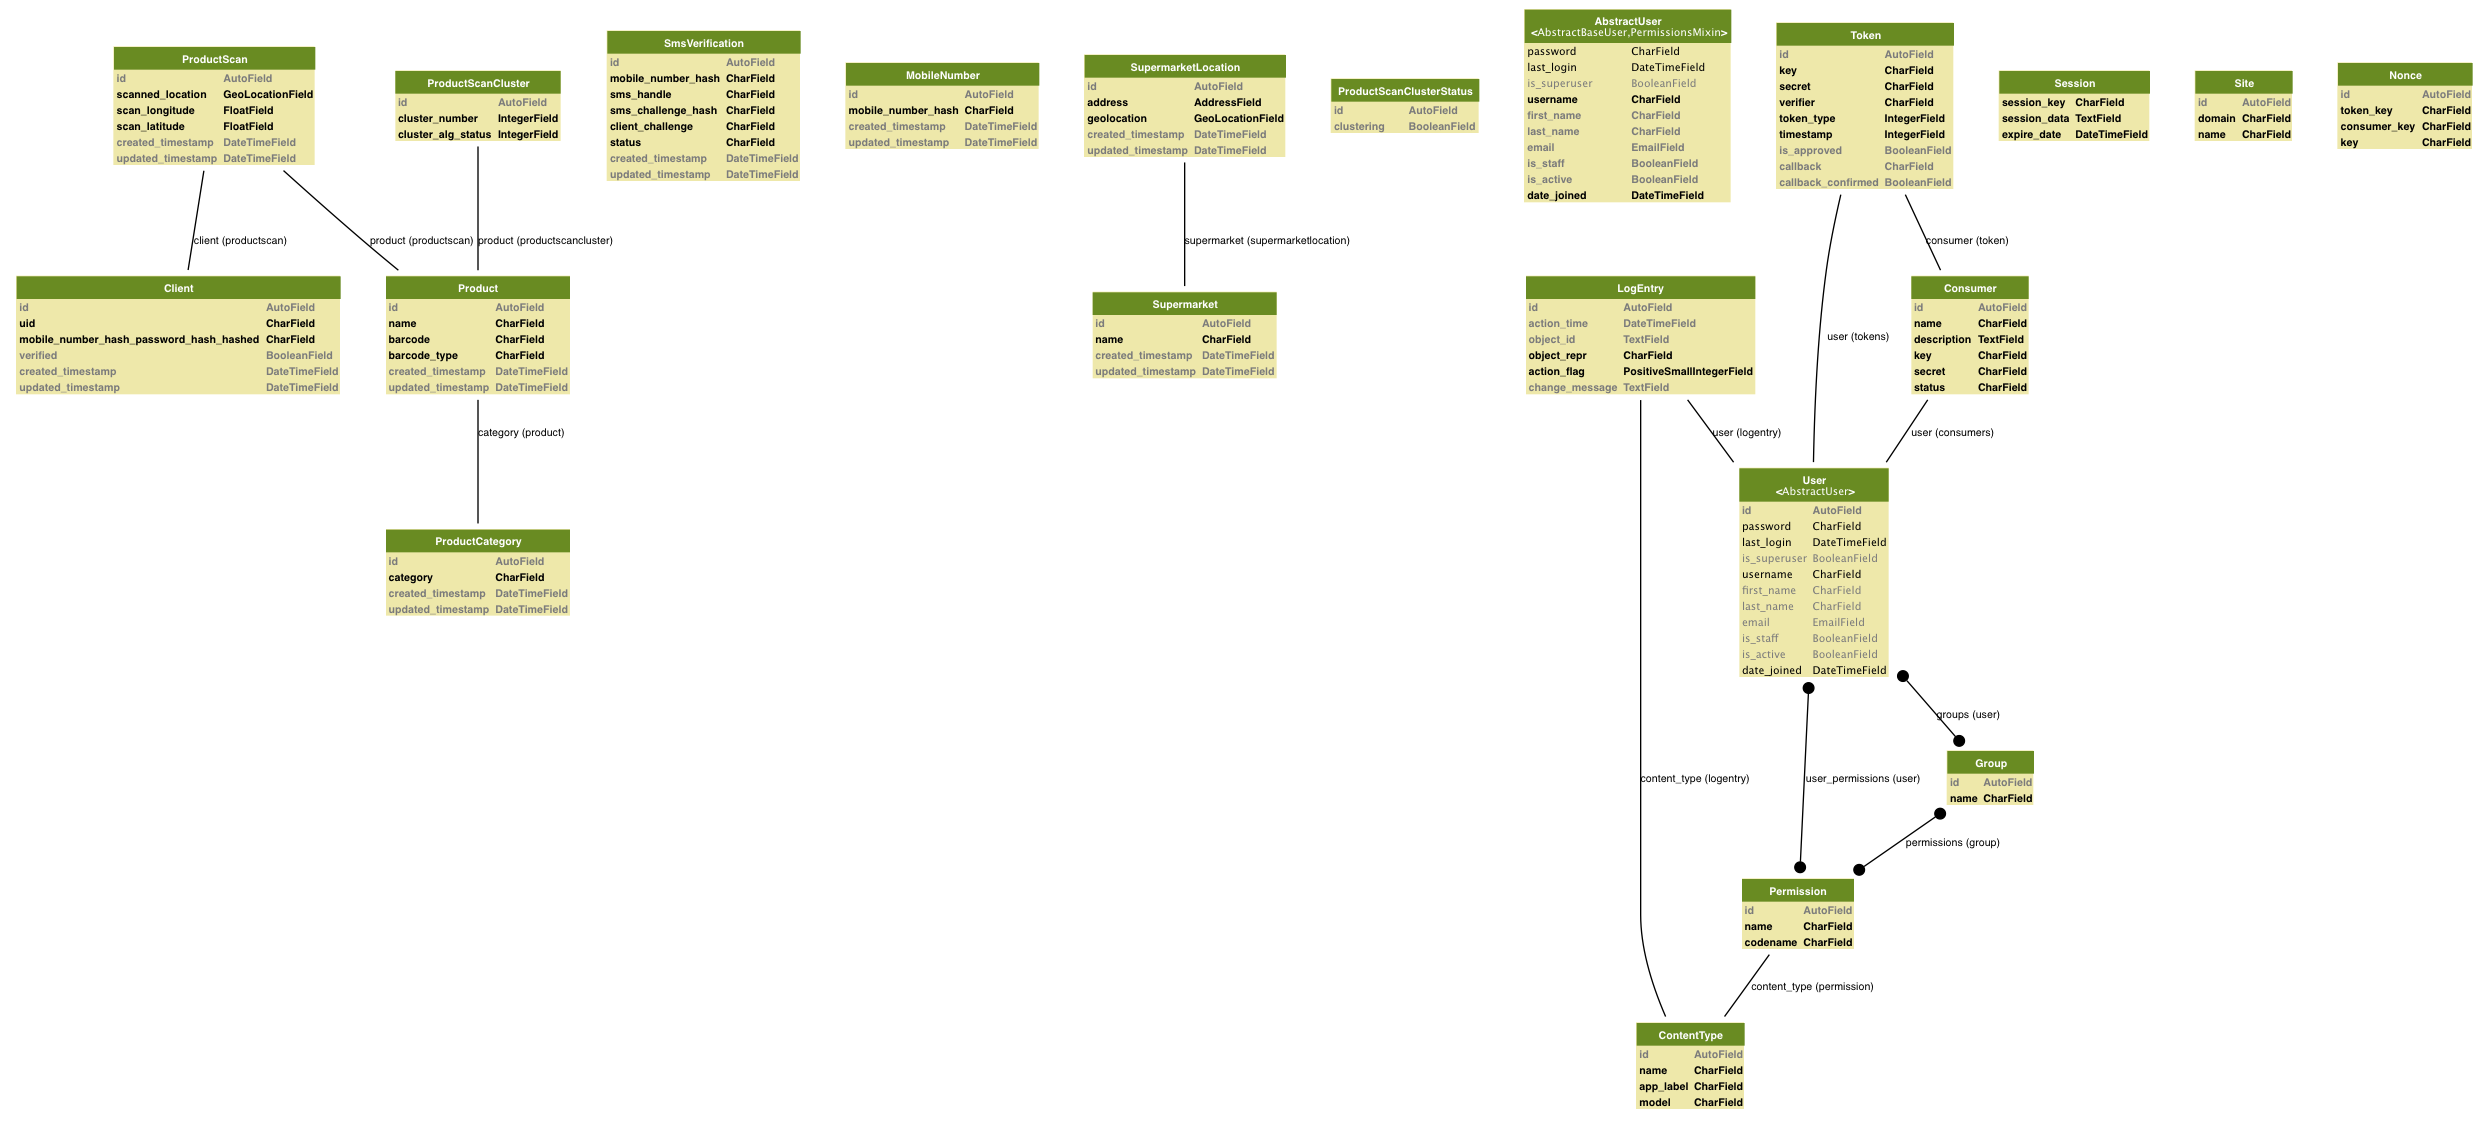
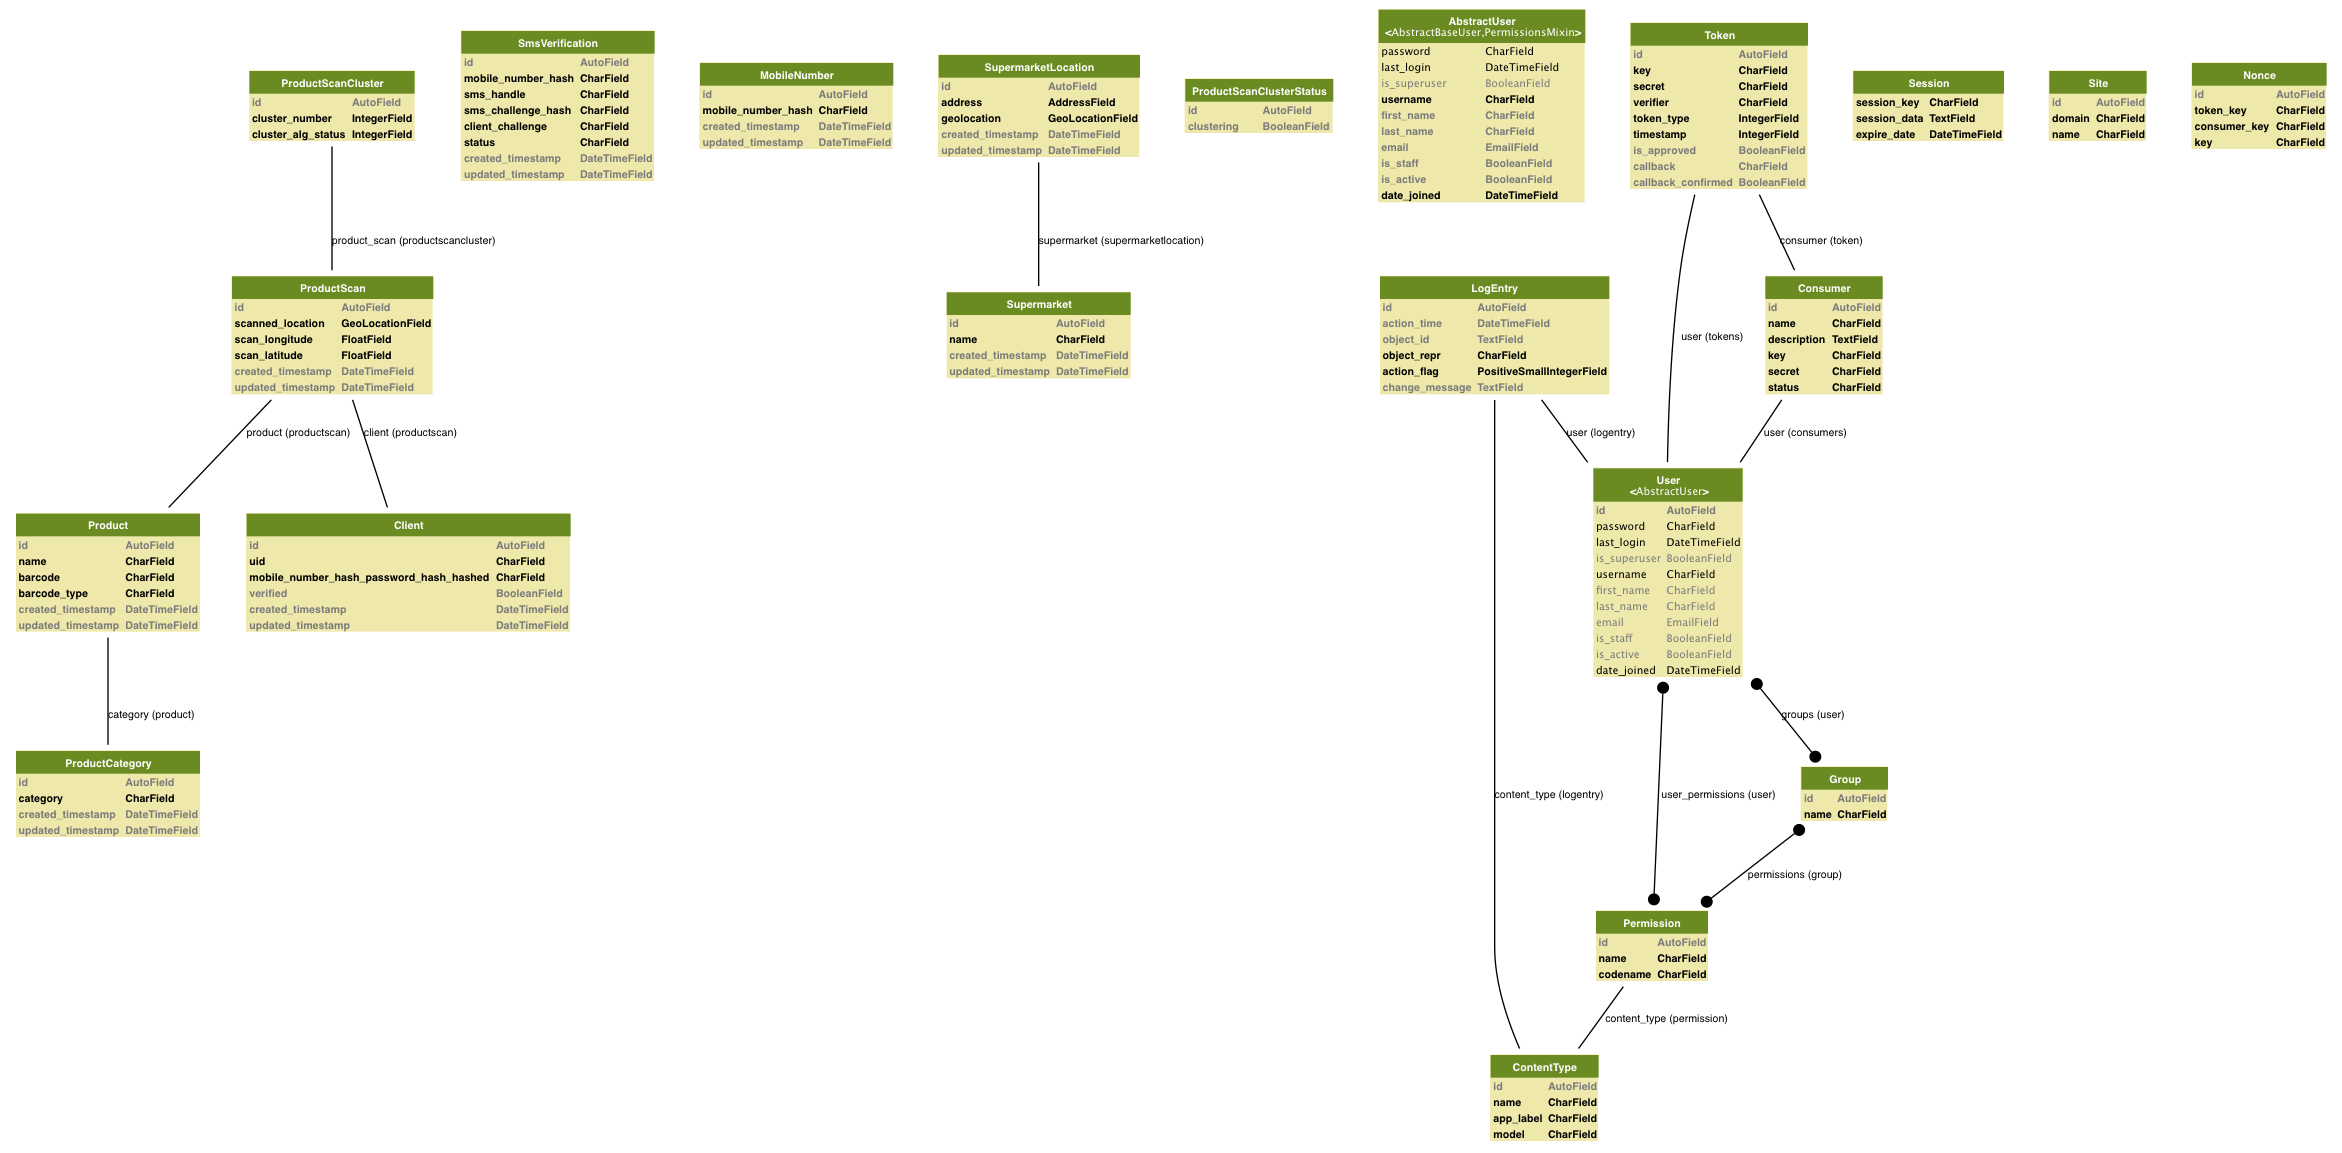
Clustering iteration

diff --git a/etiktak/model/products/models.py b/etiktak/model/products/models.py
@@ -87,35 +87,6 @@ class Product(models.Model):
 
 
 
-CLUSTER_ALG_STATUS = util.enum(NOT_VISITED=0, VISITED=1, NOISE=2)
-
-class ProductScanClusterStatus(models.Model):
-    clustering = models.BooleanField(default=False)
-
-class ProductScanCluster(models.Model):
-    product = models.ForeignKey(Product)
-    cluster_number = models.IntegerField()
-    cluster_alg_status = models.IntegerField()
-
-    @staticmethod
-    def create_product_scan_cluster(product):
-        """
-        Creates and saves a product scan location cluster with initial cluster set to
-        unknown.
-        """
-        scan = ProductScanCluster(product=product, cluster_alg_status=CLUSTER_ALG_STATUS.NOT_VISITED, cluster_number=-1)
-        scan.save()
-        return scan
-
-    def __unicode__(self):
-        return u"%s | %s" % (self.cluster_number, self.cluster_status)
-
-    class Meta:
-        verbose_name = u"Produktscanning"
-        verbose_name_plural = u"Produktscanninger"
-
-
-
 class ProductScan(models.Model):
     product = models.ForeignKey(Product)
     scanned_location = map_fields.GeoLocationField(max_length=100)
@@ -136,11 +107,40 @@ class ProductScan(models.Model):
         scan = ProductScan(product=product, client=client, scanned_location=scan_latitude + ", " + scan_longitude,
                            scan_latitude=scan_latitude, scan_longitude=scan_longitude)
         scan.save()
-        ProductScanCluster.create_product_scan_cluster(product=product)
+        ProductScanCluster.create_product_scan_cluster(product_scan=scan)
         return scan
 
     def __unicode__(self):
         return u"%s | %s" % (self.supermarket_location, self.scanned_location)
+
+    class Meta:
+        verbose_name = u"Produktscanning"
+        verbose_name_plural = u"Produktscanninger"
+
+
+
+CLUSTER_ALG_STATUS = util.enum(NOT_VISITED=0, VISITED=1, NOISE=2)
+
+class ProductScanClusterStatus(models.Model):
+    clustering = models.BooleanField(default=False)
+
+class ProductScanCluster(models.Model):
+    product_scan = models.ForeignKey(ProductScan)
+    cluster_number = models.IntegerField()
+    cluster_alg_status = models.IntegerField()
+
+    @staticmethod
+    def create_product_scan_cluster(product_scan):
+        """
+        Creates and saves a product scan location cluster with initial cluster set to
+        unknown.
+        """
+        scan = ProductScanCluster(product_scan=product_scan, cluster_alg_status=CLUSTER_ALG_STATUS.NOT_VISITED, cluster_number=-1)
+        scan.save()
+        return scan
+
+    def __unicode__(self):
+        return u"%s | %s" % (self.cluster_number, self.cluster_status)
 
     class Meta:
         verbose_name = u"Produktscanning"
